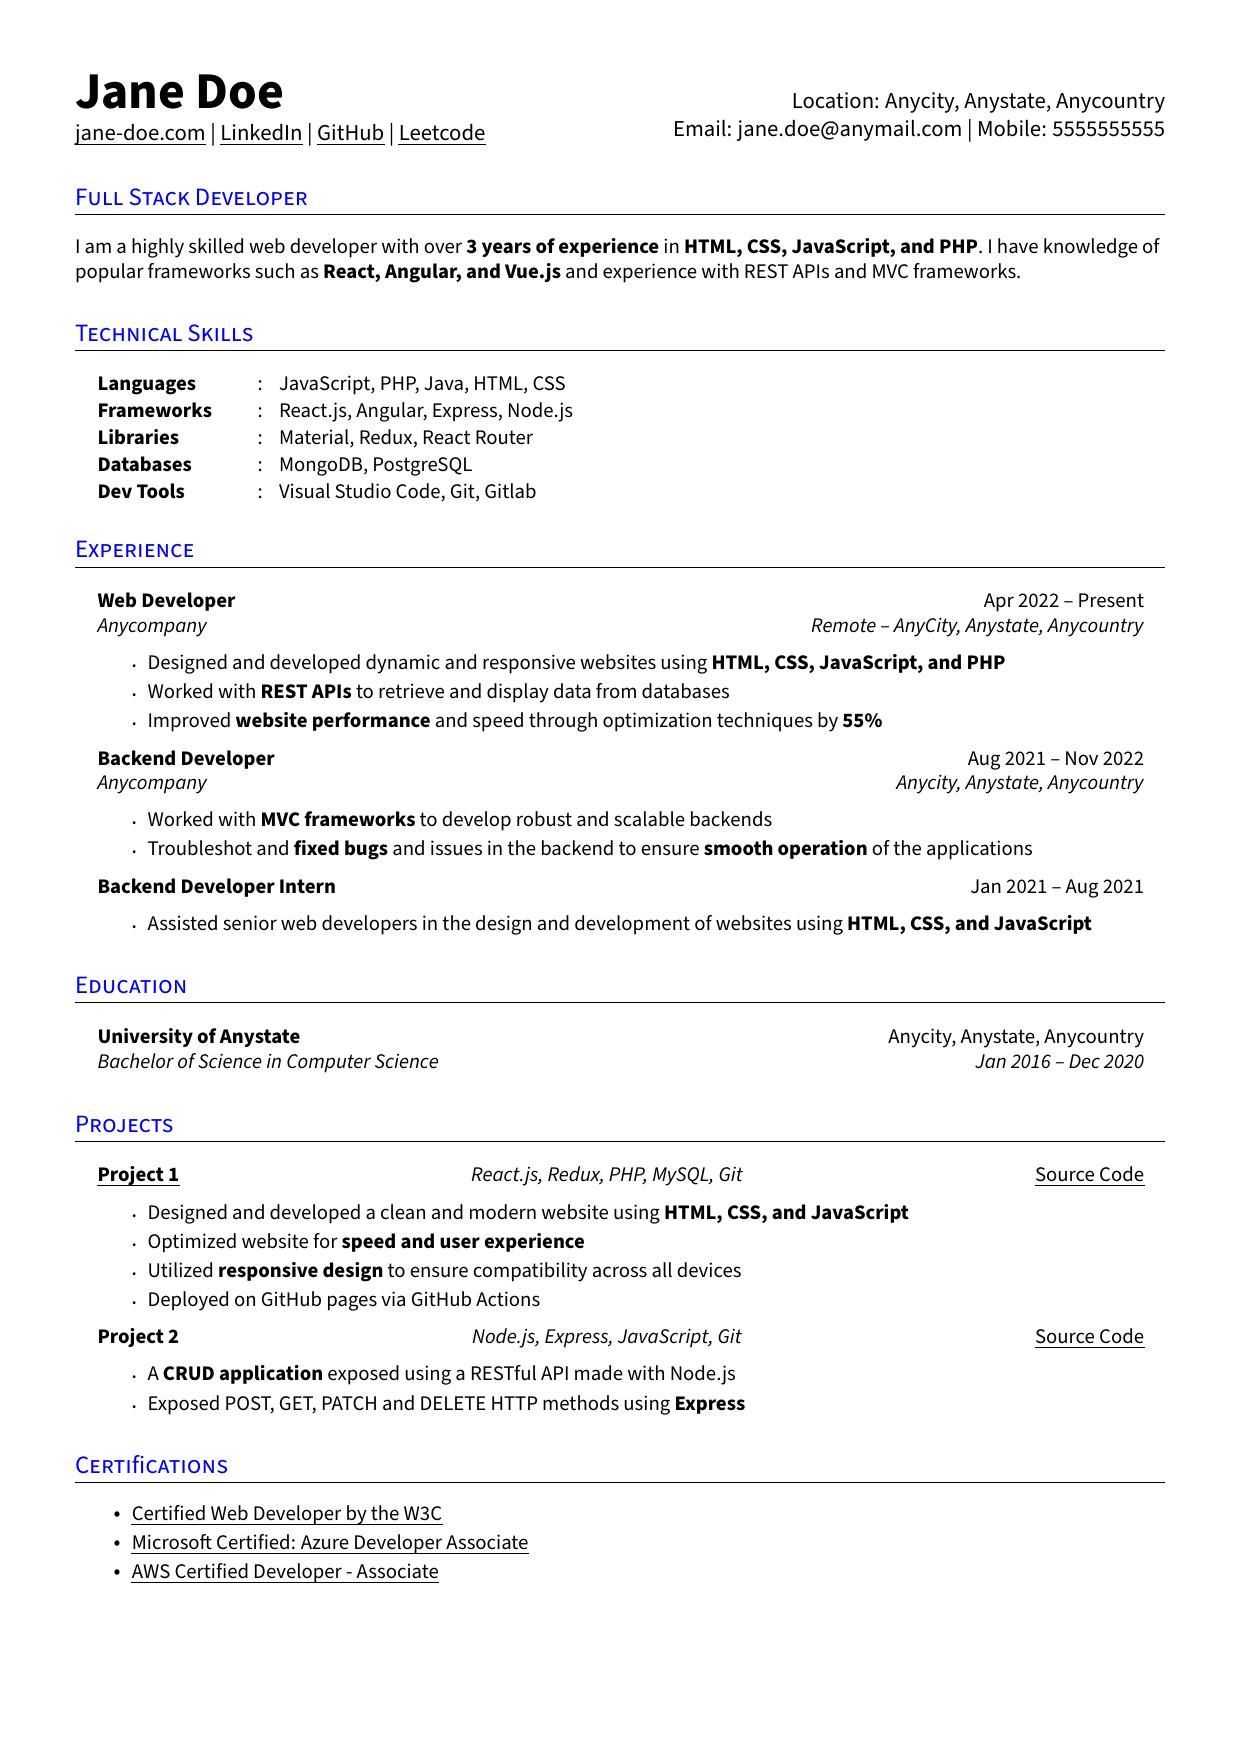
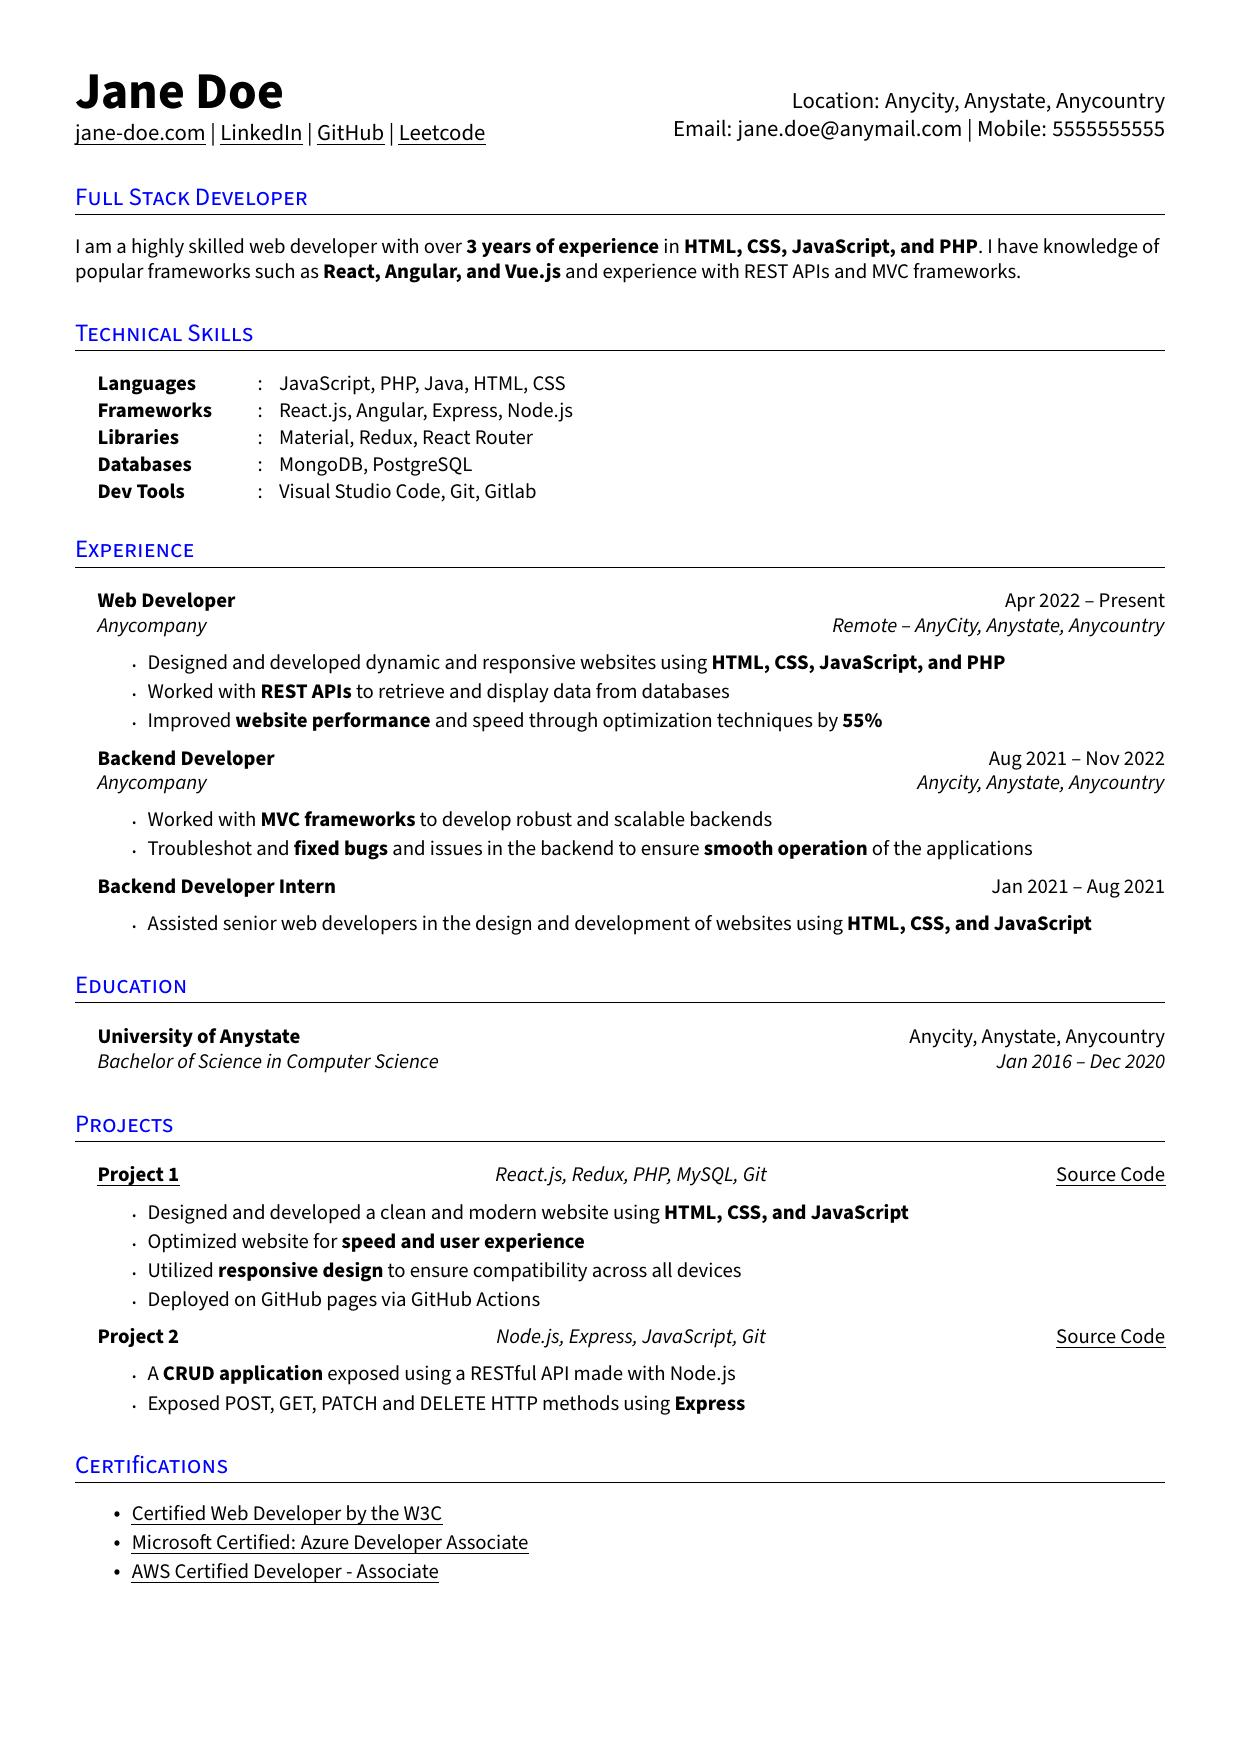
Fix CI dependency caching and wrap all resume headings

diff --git a/tests/test_resume.py b/tests/test_resume.py
@@ -1,4 +1,4 @@
-"""Compile real PDFs to catch contact clipping, broken links, and font-size leaks."""
+"""Compile real PDFs to catch clipped text, broken links, and font-size leaks."""
 
 import os
 from pathlib import Path
@@ -128,6 +128,44 @@ class ResumeTests(unittest.TestCase):
         self.assertEqual(len(sizes), 2)
         self.assertEqual(sizes[0], sizes[1])
 
+    def test_long_headings_remain_readable(self):
+        cases = {
+            "long-project-heading": {
+                r"\uline{Project 1}": r"\uline{Distributed Event Processing and Observability Platform}",
+                "React.js, Redux, PHP, MySQL, Git":
+                    "TypeScript, React, Next.js, Node.js, PostgreSQL, Redis, Docker, "
+                    "Kubernetes, AWS, Terraform, GitHub Actions",
+                r"\uline{Source Code}": r"\uline{Repository and Architecture Documentation}",
+            },
+            "long-experience-heading": {
+                "{Web Developer}{Apr 2022 -- Present}":
+                    "{Senior Software Engineer, Developer Experience and Platform Infrastructure}"
+                    "{September 2022 -- Present}",
+                "{Anycompany}{Remote -- AnyCity, Anystate, Anycountry}":
+                    "{International Research and Software Development Corporation}"
+                    "{Greater Los Angeles Metropolitan Area, California, United States}",
+            },
+            "long-child-heading": {
+                "{Backend Developer Intern}{Jan 2021 -- Aug 2021}":
+                    "{Software Engineering Intern, Developer Experience and Platform Infrastructure}"
+                    "{January 2021 -- August 2021}",
+            },
+        }
+        for case, replacements in cases.items():
+            with self.subTest(case=case):
+                source = self.source
+                for before, after in replacements.items():
+                    self.assertIn(before, source)
+                    source = source.replace(before, after)
+                reader, log = self.compile_case(case, source)
+                self.assert_clean_log(log)
+                self.assertEqual(len(reader.pages), 1)
+                text = compact(reader.pages[0].extract_text())
+                for replacement in replacements.values():
+                    for field in re.findall(r"\{([^{}]+)\}", replacement) or [replacement]:
+                        self.assertIn(compact(field.replace("--", "–")), text)
+                self.assertEqual(links(reader), set(re.findall(r"\\href\{([^}]+)\}", source)))
+
     def test_heading_and_item_font_sizes_do_not_leak(self):
         preamble = self.source.split(r"\begin{document}", 1)[0]
         body = r"""
@@ -148,6 +186,7 @@ class ResumeTests(unittest.TestCase):
 \end{document}
 """
         _, log = self.compile_case("macro-font-scope", preamble + body)
+        self.assert_clean_log(log)
         sizes = re.findall(r"REVIEW-SIZE=([\d.]+)", log)
         self.assertEqual(len(sizes), 6)
         self.assertEqual(len(set(sizes)), 1, sizes)

diff --git a/rezume.tex b/rezume.tex
@@ -116,33 +116,35 @@
   }\vspace{-2pt}
 }
 
-% resumeTrioHeading renders three elements in three columns with second element being italicized and first element bolded, can be used for projects with three elements
+% resumeTrioHeading renders three wrapping columns within the current list width
 \newcommand{\resumeTrioHeading}[3]{
   \item{\small
-    \begin{tabular*}{0.96\textwidth}[t]{
-      l@{\extracolsep{\fill}}c@{\extracolsep{\fill}}r
+    \begin{tabularx}{\linewidth}[t]{
+      @{}>{\raggedright\arraybackslash}X@{\hspace{1em}}
+      >{\centering\arraybackslash}X@{\hspace{1em}}
+      >{\raggedleft\arraybackslash}X@{}
     }
       \textbf{#1} & \textit{#2} & #3
-    \end{tabular*}\par
+    \end{tabularx}\par
   }
 }
 
 % resumeQuadHeading renders four elements in a two columns with the second row being italicized and first element of first row bolded, can be used for experience and projects with four elements
 \newcommand{\resumeQuadHeading}[4]{
   \item{\small
-    \begin{tabular*}{0.96\textwidth}[t]{l@{\extracolsep{\fill}}r}
+    \begin{tabularx}{\linewidth}[t]{@{}>{\raggedright\arraybackslash}X@{\hspace{1em}}>{\raggedleft\arraybackslash}X@{}}
       \textbf{#1} & #2 \\
       \textit{#3} & \textit{#4} \\
-    \end{tabular*}\par
+    \end{tabularx}\par
   }
 }
 
 % resumeQuadHeadingChild renders the second row of resumeQuadHeading, can be used for experience if different roles in the same company need to added
 \newcommand{\resumeQuadHeadingChild}[2]{
   \item{\small
-    \begin{tabular*}{0.96\textwidth}[t]{l@{\extracolsep{\fill}}r}
+    \begin{tabularx}{\linewidth}[t]{@{}>{\raggedright\arraybackslash}X@{\hspace{1em}}>{\raggedleft\arraybackslash}X@{}}
       \textbf{#1} & #2 \\
-    \end{tabular*}\par
+    \end{tabularx}\par
   }
 }
 

diff --git a/readme.md b/readme.md
@@ -101,7 +101,7 @@ latexmk -pdf -synctex=1 -interaction=nonstopmode -halt-on-error -file-line-error
 
 Select another compiler with `make build ENGINE=xelatex` or `make build ENGINE=lualatex`. Each compiler has its own output directory under `build/`. `make clean` removes the selected compiler's PDF and auxiliary files. Local build outputs, including SyncTeX, are ignored by Git; the root PDF and preview image are published samples.
 
-Long contact details wrap within the header columns. When adding content, check the generated PDF for line wrapping and pagination. Unicode mappings support text extraction, but they do not guarantee compatibility with every applicant tracking system or produce a tagged, accessible PDF.
+Long contact details and heading text wrap within their columns. When adding content, check the generated PDF for line wrapping and pagination. Unicode mappings support text extraction, but they do not guarantee compatibility with every applicant tracking system or produce a tagged, accessible PDF.
 
 ### Development checks and sample updates
 
@@ -116,7 +116,7 @@ make check
 
 On Windows, create the environment with `py -3 -m venv .venv`, activate it in Command Prompt with `.venv\Scripts\activate`, and run `python -m pip install -r requirements-dev.txt`. After the `latexmk` build above, you can run the checks without Make using `python -m unittest discover -s tests -v`.
 
-Run `make check ENGINE=xelatex` and `make check ENGINE=lualatex` to test the other compilers. The checks compile the sample and longer contact examples, verify PDF content and hyperlinks, reject layout warnings, and confirm that font-size changes stay within their intended blocks. GitHub Actions runs them with all three compilers.
+Run `make check ENGINE=xelatex` and `make check ENGINE=lualatex` to test the other compilers. The checks compile the sample and longer contact and heading examples, verify PDF content and hyperlinks, reject layout warnings, and confirm that font-size changes stay within their intended blocks. GitHub Actions runs them with all three compilers.
 
 Maintainers can refresh the checked-in sample PDF and image with `make sample`. This target also requires Poppler's `pdftoppm` (`sudo apt-get install poppler-utils` on Debian or Ubuntu). Review the generated samples before committing them.
 
